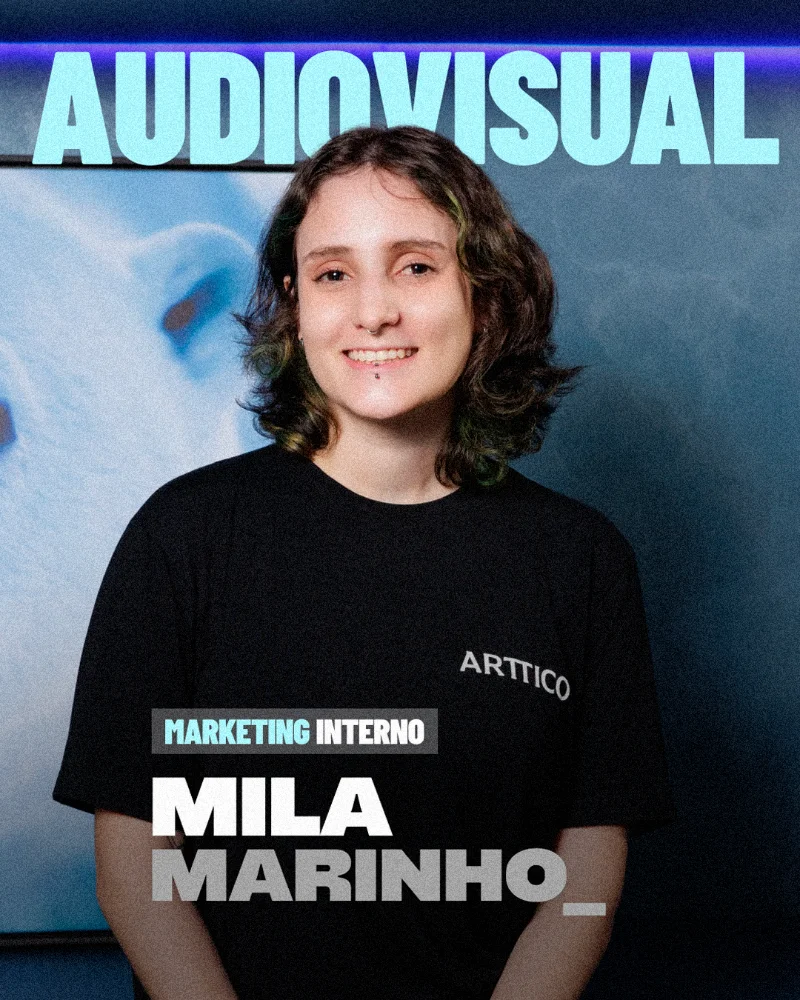
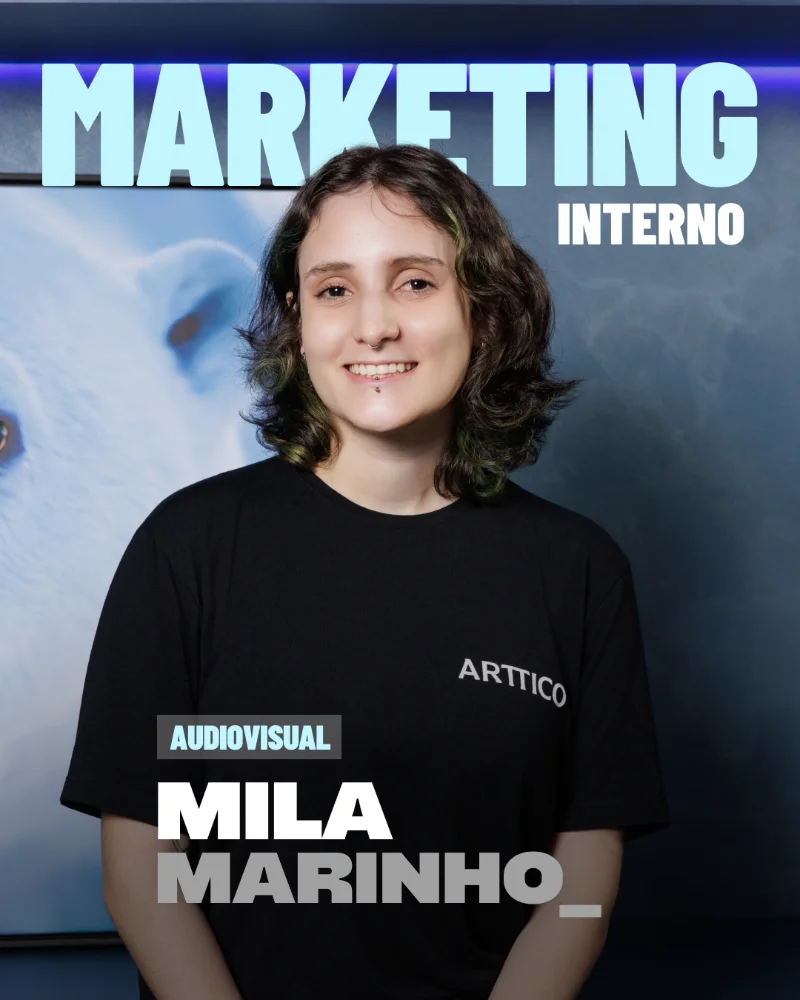
Time Arttico: fotos novas e box do squad de marketing interno

diff --git a/index.html b/index.html
@@ -13,7 +13,7 @@
 <link rel="preconnect" href="https://fonts.gstatic.com" crossorigin>
 <link href="https://fonts.googleapis.com/css2?family=DM+Sans:wght@400;500&family=Figtree:ital,wght@0,400;0,500;0,600;0,700;1,600&family=Geist:wght@400;500&family=Inter:wght@400;500;600;700&family=Raleway:wght@700&family=Rethink+Sans:wght@400;500&display=swap" rel="stylesheet">
 <link href="https://api.fontshare.com/v2/css?f[]=satoshi@400,500&display=swap" rel="stylesheet">
-<link rel="stylesheet" href="styles.css">
+<link rel="stylesheet" href="styles.css?v=202611041656">
 </head>
 <body>
 
@@ -282,9 +282,13 @@
         <li class="time-card"><img src="assets/time-05-lucas.webp" alt="Lucas Felipe, automação e inteligência artificial da Arttico" loading="lazy"></li>
         <li class="time-card"><img src="assets/time-06-richard.webp" alt="Richard Silva, analista de tráfego e performance da Arttico" loading="lazy"></li>
         <li class="time-card"><img src="assets/time-07-maria-eduarda.webp" alt="Maria Eduarda, analista de CRM da Arttico" loading="lazy"></li>
-        <li class="time-card"><img src="assets/time-08-ilze.webp" alt="Ilze Karoline, social media e marketing interno da Arttico" loading="lazy"></li>
-        <li class="time-card"><img src="assets/time-09-mila.webp" alt="Mila Marinho, audiovisual e marketing interno da Arttico" loading="lazy"></li>
-        <li class="time-card"><img src="assets/time-10-renato.webp" alt="Renato Romeu, designer e marketing interno da Arttico" loading="lazy"></li>
+        <li class="time-squad">
+          <ul class="time-squad-lista">
+            <li class="time-card"><img src="assets/time-08-ilze.webp" alt="Ilze Karoline, social media e marketing interno da Arttico" loading="lazy"></li>
+            <li class="time-card"><img src="assets/time-09-mila.webp" alt="Mila Marinho, audiovisual e marketing interno da Arttico" loading="lazy"></li>
+            <li class="time-card"><img src="assets/time-10-renato.webp" alt="Renato Romeu, designer e marketing interno da Arttico" loading="lazy"></li>
+          </ul>
+        </li>
       </ul>
     </div>
   </section>
@@ -401,6 +405,6 @@
 
 </div>
 
-<script src="script.js"></script>
+<script src="script.js?v=202611041656"></script>
 </body>
 </html>

diff --git a/styles.css b/styles.css
@@ -676,7 +676,7 @@ a:focus-visible, button:focus-visible, summary:focus-visible { outline: 2px soli
 .time-trilho.arrastando { cursor: grabbing; scroll-snap-type: none; scroll-behavior: auto; }
 .time-trilho.arrastando .time-card { transform: none; pointer-events: none; }
 .time-card img { -webkit-user-drag: none; }
-.time-lista { list-style: none; display: flex; gap: 22px; padding-right: max(50px, calc((100vw - 1240px) / 2)); width: max-content; }
+.time-lista { list-style: none; display: flex; align-items: center; gap: 22px; padding-right: max(50px, calc((100vw - 1240px) / 2)); width: max-content; }
 .time-card {
   width: 300px; flex-shrink: 0;
   scroll-snap-align: start;
@@ -688,6 +688,16 @@ a:focus-visible, button:focus-visible, summary:focus-visible { outline: 2px soli
 }
 .time-card img { width: 100%; aspect-ratio: 4 / 5; object-fit: cover; }
 .time-card:hover { transform: translateY(-6px); border-color: rgba(56, 215, 255, .4); }
+/* squad: cards do mesmo time dentro de uma box, sem texto */
+.time-squad {
+  flex-shrink: 0;
+  scroll-snap-align: start;
+  padding: 14px;
+  border-radius: 26px;
+  border: 1px solid rgba(56, 215, 255, .28);
+  background: rgba(56, 215, 255, .06);
+}
+.time-squad-lista { list-style: none; display: flex; gap: 14px; }
 
 /* ============ RODAPÉ ============ */
 /* mesmas margens laterais das outras seções (conteúdo em 1240px) */
@@ -877,6 +887,8 @@ a:focus-visible, button:focus-visible, summary:focus-visible { outline: 2px soli
   .time-texto h2 { font-size: 40px; }
   .time-card { width: 74vw; max-width: 300px; }
   .time-lista { padding-right: 16px; gap: 14px; }
+  .time-squad { padding: 10px; border-radius: 22px; }
+  .time-squad-lista { gap: 10px; }
   .footer { padding: 60px 16px 0; }
   .footer-cta { padding: 34px 22px; border-radius: 20px; }
   .footer-cta h2 { font-size: 30px; line-height: 38px; }
